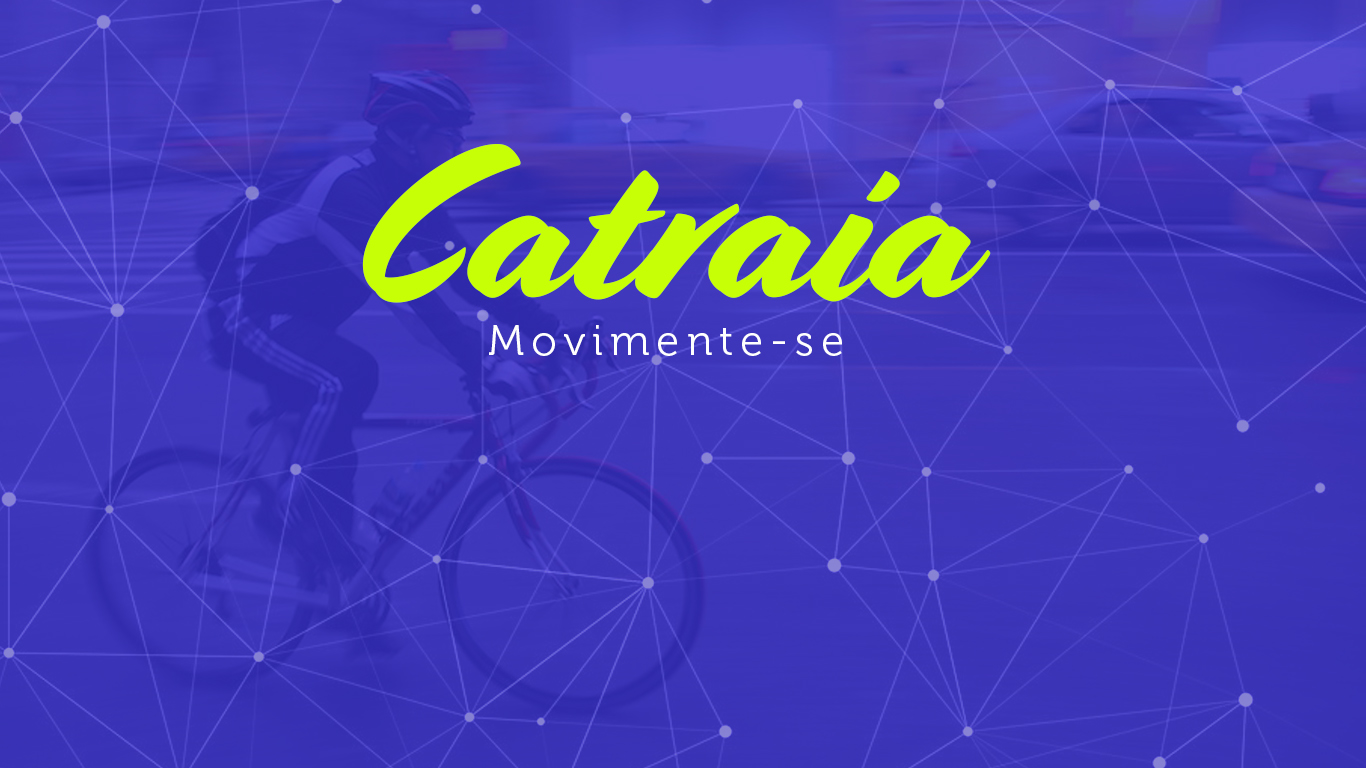
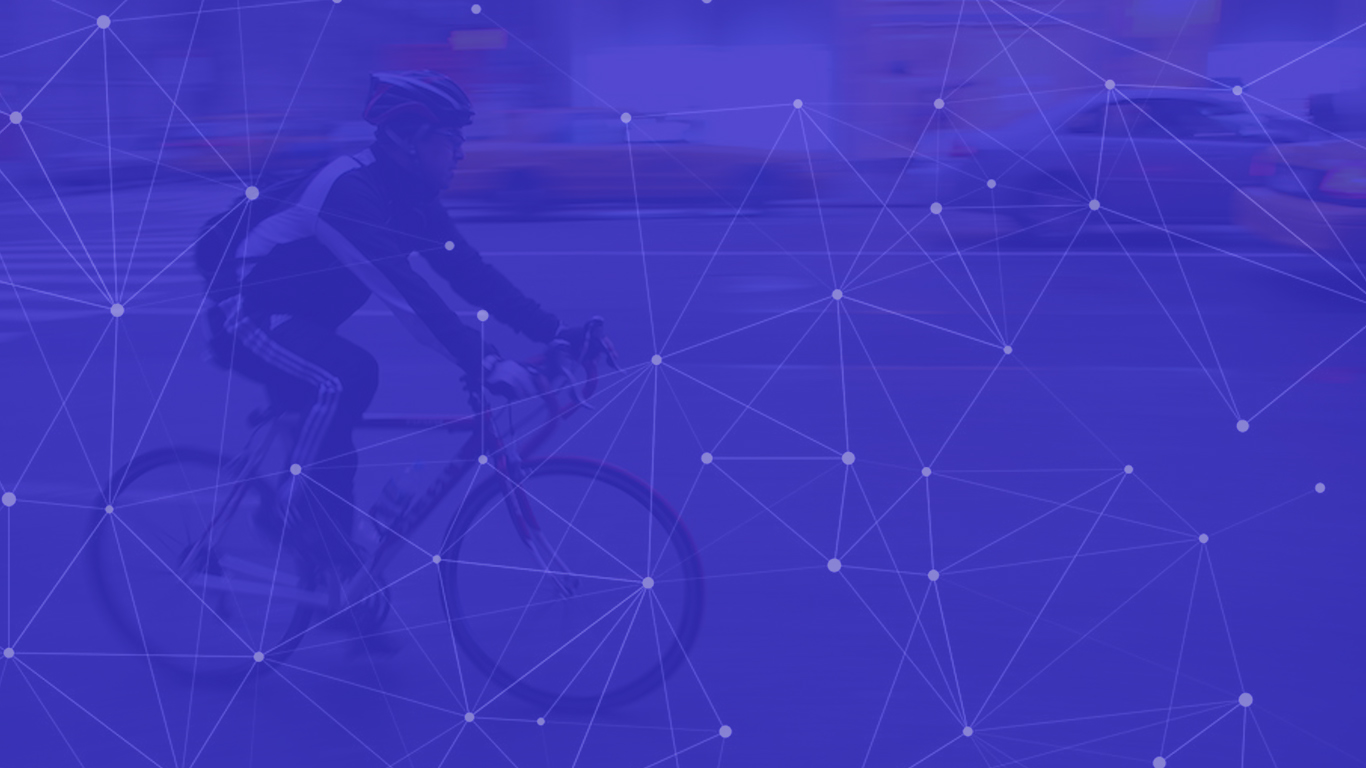
alteracao de cor de botao

Changed region(s): [[0.246, 0.1875, 0.7379, 0.4062], [0.3382, 0.4375, 0.6149, 0.4688], [0.6457, 0.2188, 0.6764, 0.25]]

diff --git a/index.html b/index.html
@@ -5,7 +5,7 @@
     <meta http-equiv="X-UA-Compatible" content="IE=edge">
     <meta name="viewport" content="width=device-width, initial-scale=1">
 
-    <title>Catraia</title>
+    <title>Move!</title>
     <link rel="icon" href="imagens/icone.png">
 <!-- Global site tag (gtag.js) - Google Analytics -->
 <script async src="https://www.googletagmanager.com/gtag/js?id=UA-73272306-3"></script>
@@ -32,7 +32,8 @@
   <body>
     <div class="corpo-principal">
       <div class="texto-capa">
-        <h3><br><br><br><br>“Você não pode colocar qualquer limite, nada é impossível.” – Usain Bolt</h3>
+        <h1><i>Move!</i></h1>
+        <h3>“Você não pode colocar qualquer limite, nada é impossível.” – Usain Bolt</h3>
         <a href="" class="btn btn-custom btn-lg">Faça já seu download</a>
       </div>
     </div>

diff --git a/estilo.css b/estilo.css
@@ -79,9 +79,9 @@ h5{
 }
 
 .btn-custom{
-	color: white;
+	color: #08088A;
 	text-align: center;
-	background: #4038bc;
+	background: #fff;
 	border-radius: 500px;
 	-webkit-border-radius: 500px;
     -moz-border-radius: 500px;
@@ -89,10 +89,6 @@ h5{
     margin: 0px 15px;
     text-transform: uppercase;
     transition: background 0.4s, color 0.4s;
-}
-.btn-custom:hover{
-	background: #6762bc;
-	color: black;
 }
 #sobre{
 	background: white;
